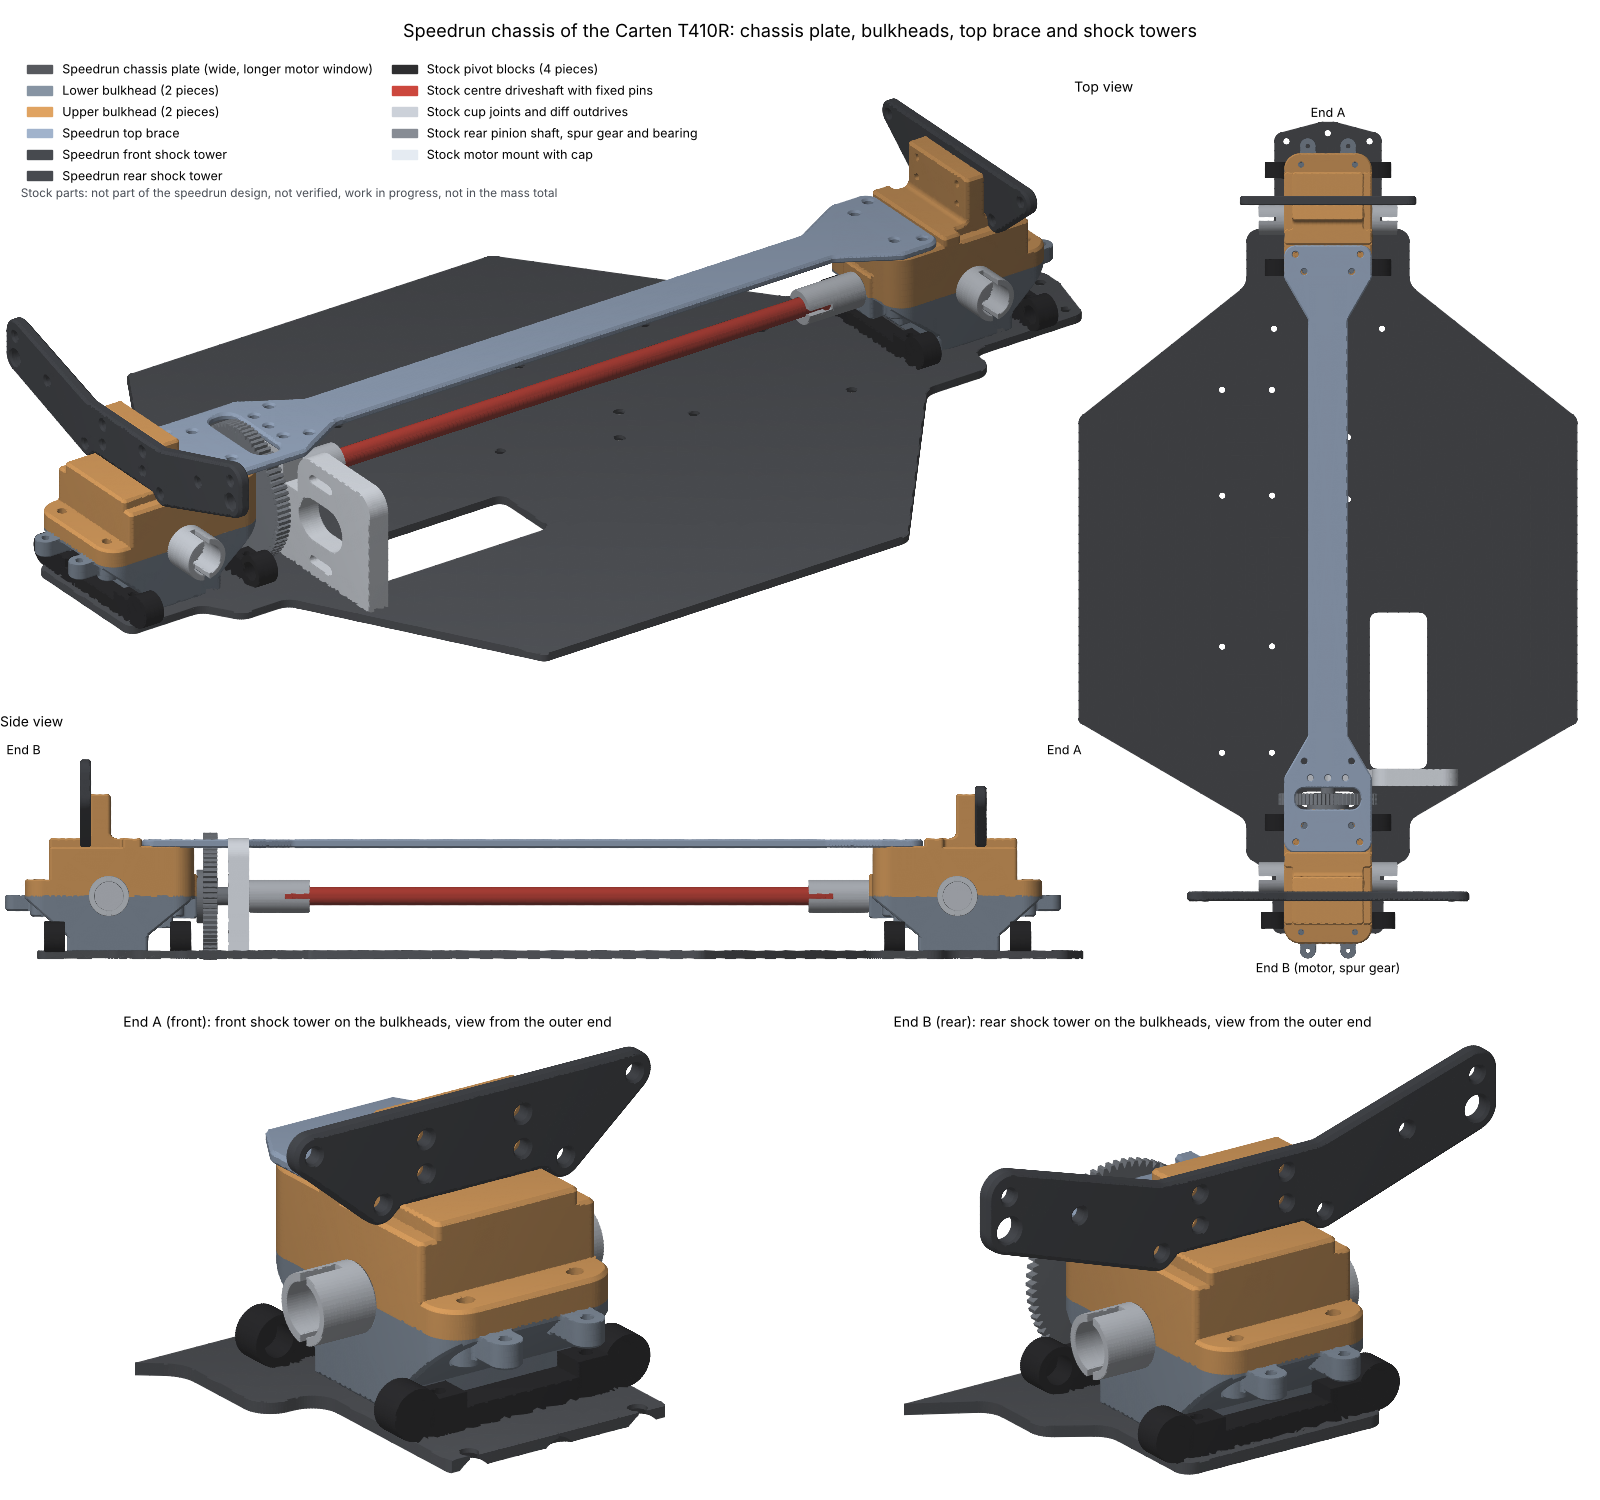
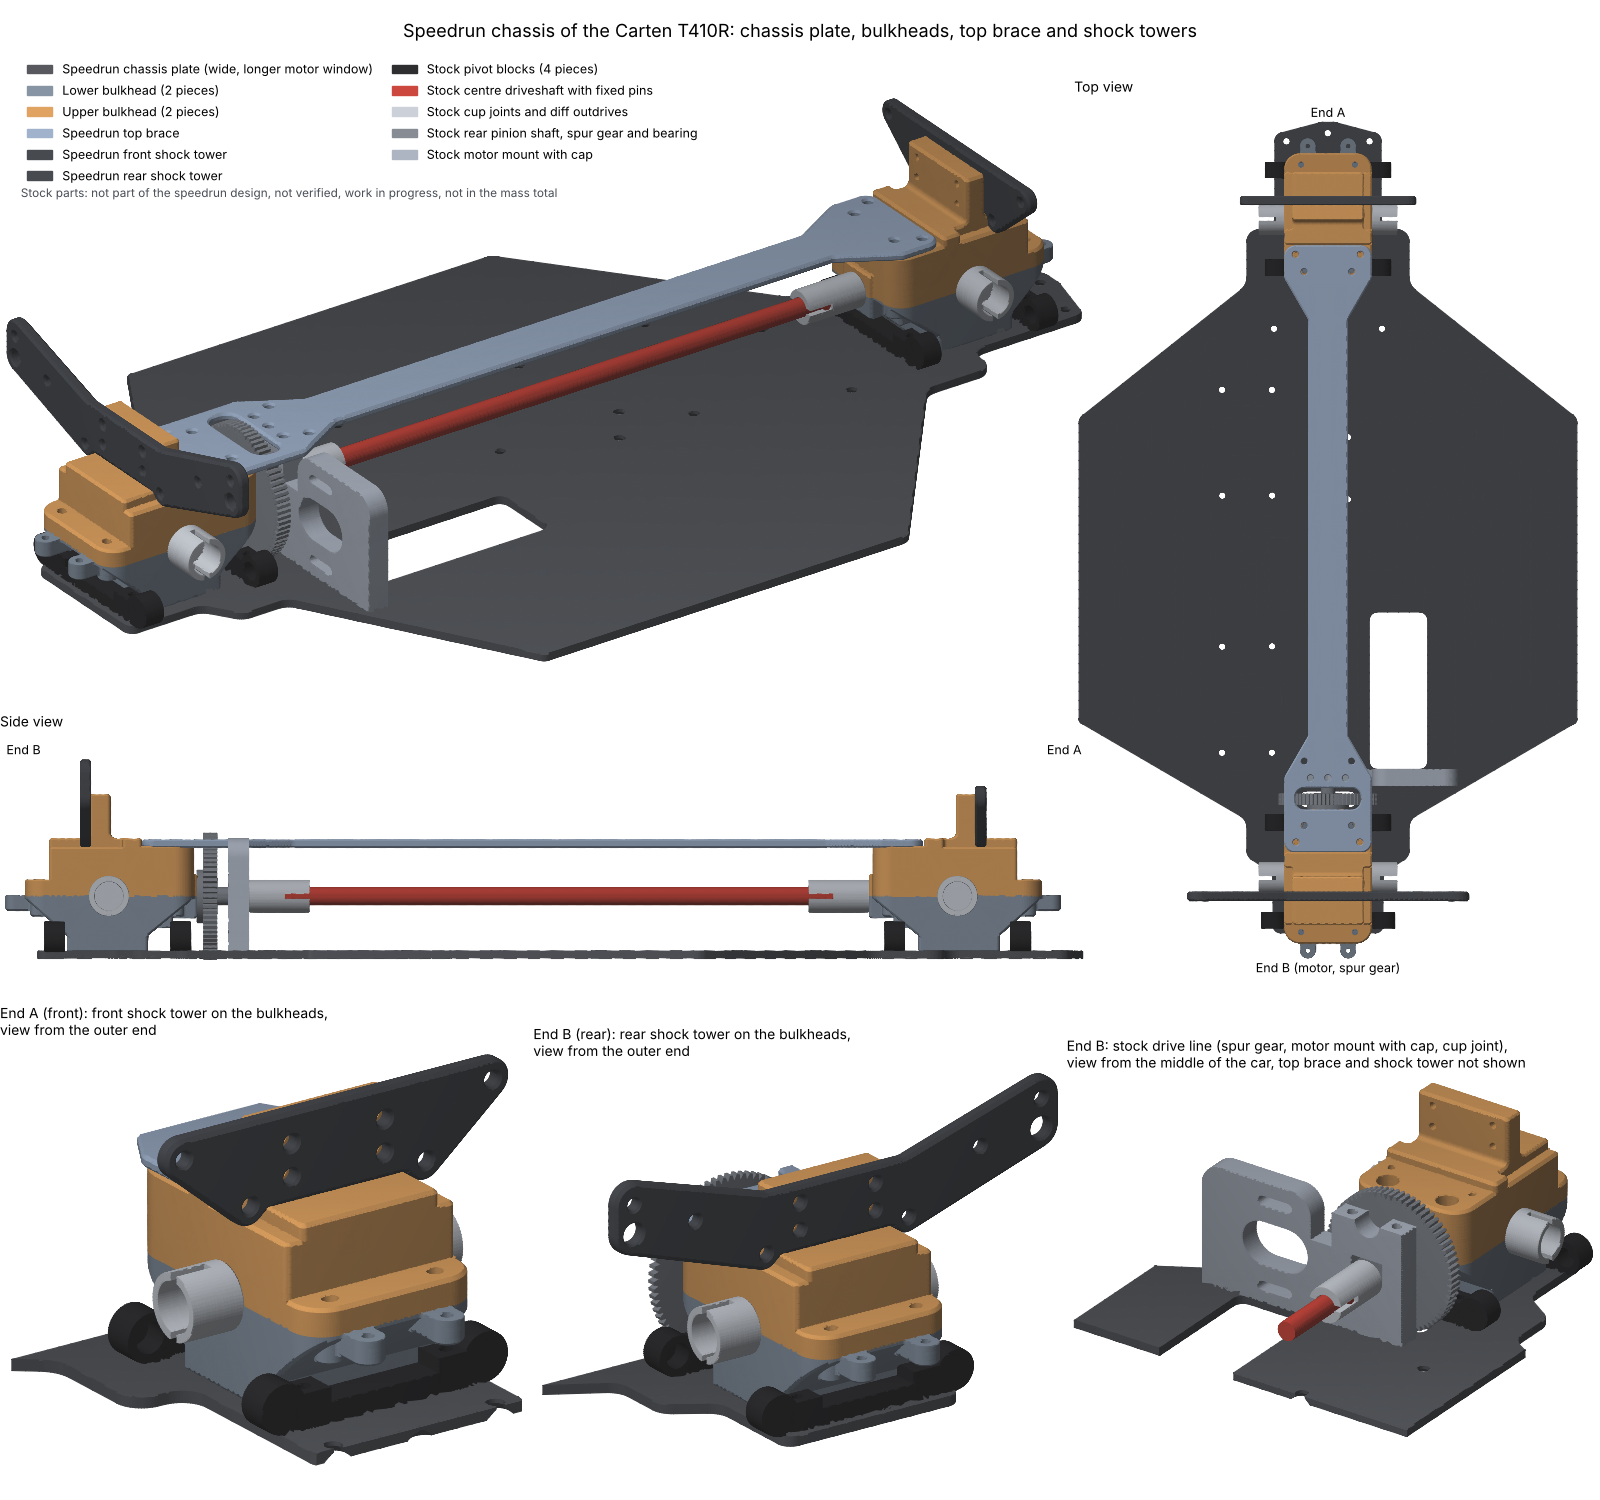
Show the stock drive line in the assembly picture
* Add a third close-up: stock drive line at End B (spur gear, motor mount
  with cap, cup joint), seen from the middle of the car, without the top
  brace and the shock towers, which hide the spur gear.
* Darker colour of the motor mount, so that it is visible on the light
  background (picture and STEP colour).
* Describe the close-ups in the root readme and the CAD readme.

Claude-Session: https://claude.ai/code/session_012MJxxEEjoVgHx6jU6rcxWi

diff --git a/scripts/cad/generate_speedrun_assembly.py b/scripts/cad/generate_speedrun_assembly.py
@@ -17,7 +17,7 @@ Parts:
 
 Outputs:
 * cad/assembly/speedrun_chassis_T410R.step: assembly (STEP AP214, one solid per part)
-* photos/cad_speedrun_chassis_assembly.png: 3D view, side view, top view and close-ups of both ends
+* photos/cad_speedrun_chassis_assembly.png: 3D view, side view, top view, close-ups of both ends and of the drive line at End B
 
 The script checks all pairs of parts for interference and lists the volume and the mass of
 each part.
@@ -53,7 +53,7 @@ OUT_PNG = "photos/cad_speedrun_chassis_assembly.png"
 COLORS = {"plate": (0.26, 0.27, 0.29), "lower": (0.45, 0.5, 0.56), "upper": (0.8, 0.56, 0.3),
           "brace": (0.55, 0.62, 0.72), "tower_front": (0.2, 0.21, 0.23), "tower_rear": (0.2, 0.21, 0.23),
           "pivot": (0.1, 0.1, 0.11), "shaft": (0.72, 0.2, 0.16), "cup": (0.72, 0.74, 0.77),
-          "drive": (0.45, 0.47, 0.5), "mount": (0.82, 0.84, 0.87)}
+          "drive": (0.45, 0.47, 0.5), "mount": (0.6, 0.63, 0.68)}
 PICTURE_ONLY = set()                       # keys of parts shown in the picture only (not in the STEP file)
 # part key: (label, material options with density in g/cm3)
 MATERIALS = {"plate": ("Speedrun chassis plate (wide, longer motor window)", {"6082": 2.70, "carbon": 1.6}),
@@ -151,13 +151,21 @@ def image(parts, path):
             ax.text(lo[0], hi[1] + 1, "End B", ha="left", va="bottom", fontsize=9)
             ax.text(hi[0], hi[1] + 1, "End A", ha="right", va="bottom", fontsize=9)
             ax.set_ylim(lo[1] - 2, hi[1] + 8)
-    # close-ups of both ends, seen from the outer end: bulkheads, shock tower, end of the top brace
-    for k, (end, yb, azim) in enumerate((("End A (front): front shock tower", BULKHEAD_Y["front"], 55),
-                                         ("End B (rear): rear shock tower", BULKHEAD_Y["rear"], -125))):
-        region = cq.Solid.makeBox(124, 64, 90, cq.Vector(-62, yb - 32, -5))
+    # close-ups: both ends seen from the outer end (bulkheads, shock tower, end of the top brace) and the drive
+    # line at End B seen from the middle of the car (top brace and shock towers left out, they hide the spur gear)
+    closeups = (("End A (front): front shock tower on the bulkheads,\nview from the outer end",
+                 (-62, BULKHEAD_Y["front"] - 32, -5, 124, 64, 90), (), 55, 22),
+                ("End B (rear): rear shock tower on the bulkheads,\nview from the outer end",
+                 (-62, BULKHEAD_Y["rear"] - 32, -5, 124, 64, 90), (), -125, 22),
+                ("End B: stock drive line (spur gear, motor mount with cap, cup joint),\n"
+                 "view from the middle of the car, top brace and shock tower not shown",
+                 (-38, -8, -5, 105, 110, 65), ("brace", "tower_front", "tower_rear"), 125, 28))
+    for k, (title, (x0, y0, z0, dx, dy, dz), hidden, azim, elev) in enumerate(closeups):
+        region = cq.Solid.makeBox(dx, dy, dz, cq.Vector(x0, y0, z0))
         tris_e, cols_e = [], []
         for _, key, s in parts:
-            if s.BoundingBox().ymin > yb + 32 or s.BoundingBox().ymax < yb - 32:
+            bb = s.BoundingBox()
+            if key in hidden or bb.ymin > y0 + dy or bb.ymax < y0:
                 continue
             cut = s.intersect(region)
             if cut.Volume() < 1e-3:
@@ -165,14 +173,14 @@ def image(parts, path):
             t = subdivide(tess(cut, 0.02), 4.0 if key == "plate" else 1.2)
             tris_e.append(t)
             cols_e.append(np.tile(COLORS[key], (len(t), 1)))
-        ax = fig.add_axes([0.5 * k, 0.01, 0.5, 0.3])
-        lo, hi = draw_mesh(ax, np.concatenate(tris_e), iso_basis(azim, 22), tri_colors=np.concatenate(cols_e),
+        ax = fig.add_axes([k / 3, 0.01, 1 / 3, 0.3])
+        lo, hi = draw_mesh(ax, np.concatenate(tris_e), iso_basis(azim, elev), tri_colors=np.concatenate(cols_e),
                            depth_cue=0.3)
         ax.set_xlim(lo[0] - 2, hi[0] + 2)
         ax.set_ylim(lo[1] - 2, hi[1] + 2)
         ax.set_aspect("equal")
         ax.axis("off")
-        ax.set_title(f"{end} on the bulkheads, view from the outer end", fontsize=10, loc="left")
+        ax.set_title(title, fontsize=10, loc="left")
     handles = [Patch(color=np.clip(np.asarray(COLORS[k]) + 0.08, 0, 1), label=MATERIALS[k][0]) for k in COLORS]
     fig.legend(handles=handles, loc="upper left", bbox_to_anchor=(0.01, top + 0.95 * (1 - top)), fontsize=9,
                frameon=False, ncol=2, columnspacing=1.5)

diff --git a/cad/readme.md b/cad/readme.md
@@ -120,7 +120,9 @@ Stock parts of the Carten T410R, modelled for the completeness of the build (not
 * The assembly also contains the 4 stock pivot blocks of the wishbones (see [pivot blocks](#pivot-blocks-stock-parts-not-part-of-the-speedrun-design)) and the stock centre driveshaft (see [centre driveshaft](#centre-driveshaft-stock-parts-not-part-of-the-speedrun-design)). It also contains the stock cup joints, the rear pinion shaft with the spur gear and the bearing, the motor mount with its cap and the diff outdrives. These parts are not part of the speedrun design, are modelled for the completeness of the build and are not in the mass total.
 * The interference check of all pairs of parts gives 0 mm³, except 0.82 mm³ between the lower bulkhead at End B and the long pivot block (see [position and fit on the speedrun chassis](#position-and-fit-on-the-speedrun-chassis)).
 * The assembly file and the image are generated with the script `generate_speedrun_assembly.py` (see [scripts](#scripts)) from the files of the parts.
-* The image shows an overall view, a side view, a top view and close-ups of both ends: bulkheads, shock tower and end of the top brace, seen from the outer end.
+* The image shows an overall view, a side view, a top view and three close-ups:
+  * both ends with the bulkheads, the shock tower and the end of the top brace, seen from the outer end;
+  * the stock drive line at End B (spur gear, motor mount with cap, cup joint), seen from the middle of the car, without the top brace and the shock tower.
 
 ## Chassis plate and top brace
 * **Author:** [@kleinnconrad](https://github.com/kleinnconrad)

diff --git a/readme.md b/readme.md
@@ -77,6 +77,7 @@ Stock parts of the Carten T410R, modelled for the completeness of the build (not
 | Diff outdrives | 4 | Not verified, work in progress | `cad/stock_parts/diff_outdrive` |
 
 * All parts of the speedrun design are verified. The stock parts are not verified and work in progress. The bulkheads have radii and edge chamfers on the outer side for CNC milling; the inside of the parts is the verified geometry (see [edges of the outer shape](cad/readme.md#edges-of-the-outer-shape)). The stock shock tower plates do not fit the speedrun upper bulkhead; the [speedrun shock towers](cad/readme.md#speedrun-shock-towers) are designed for it. All holes of the towers are at the positions of the stock towers; the shock tower wall of the upper bulkhead is narrowed so that the rod ends of the camber links have space beside it. The status of each part, the open points and all files are described in the [CAD readme](cad/readme.md#speedrun-chassis).
+* The legend lists the colours of the speedrun parts and of the stock parts. The bottom row shows close-ups of End A and End B from the outer end and of the stock drive line at End B (spur gear, motor mount with cap, cup joint) from the middle of the car, without the top brace and the shock tower.
 * The assembly is available as a STEP file (`cad/assembly/speedrun_chassis_T410R.step`).
 
 ## Repository structure
